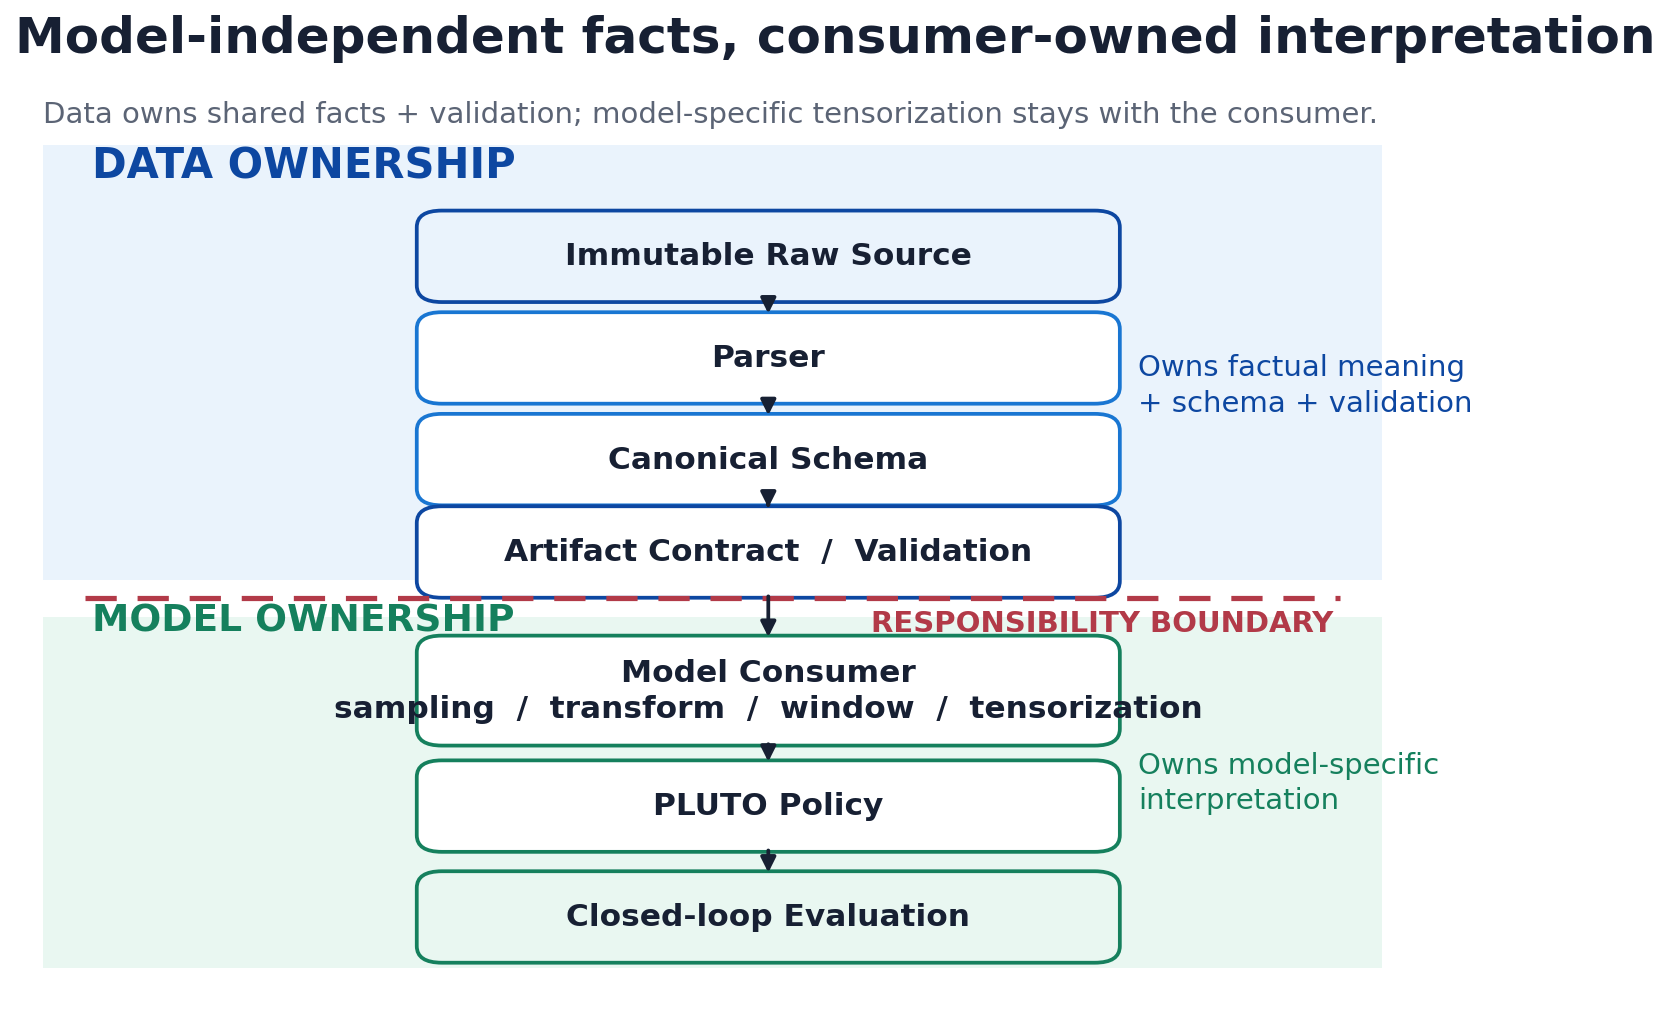
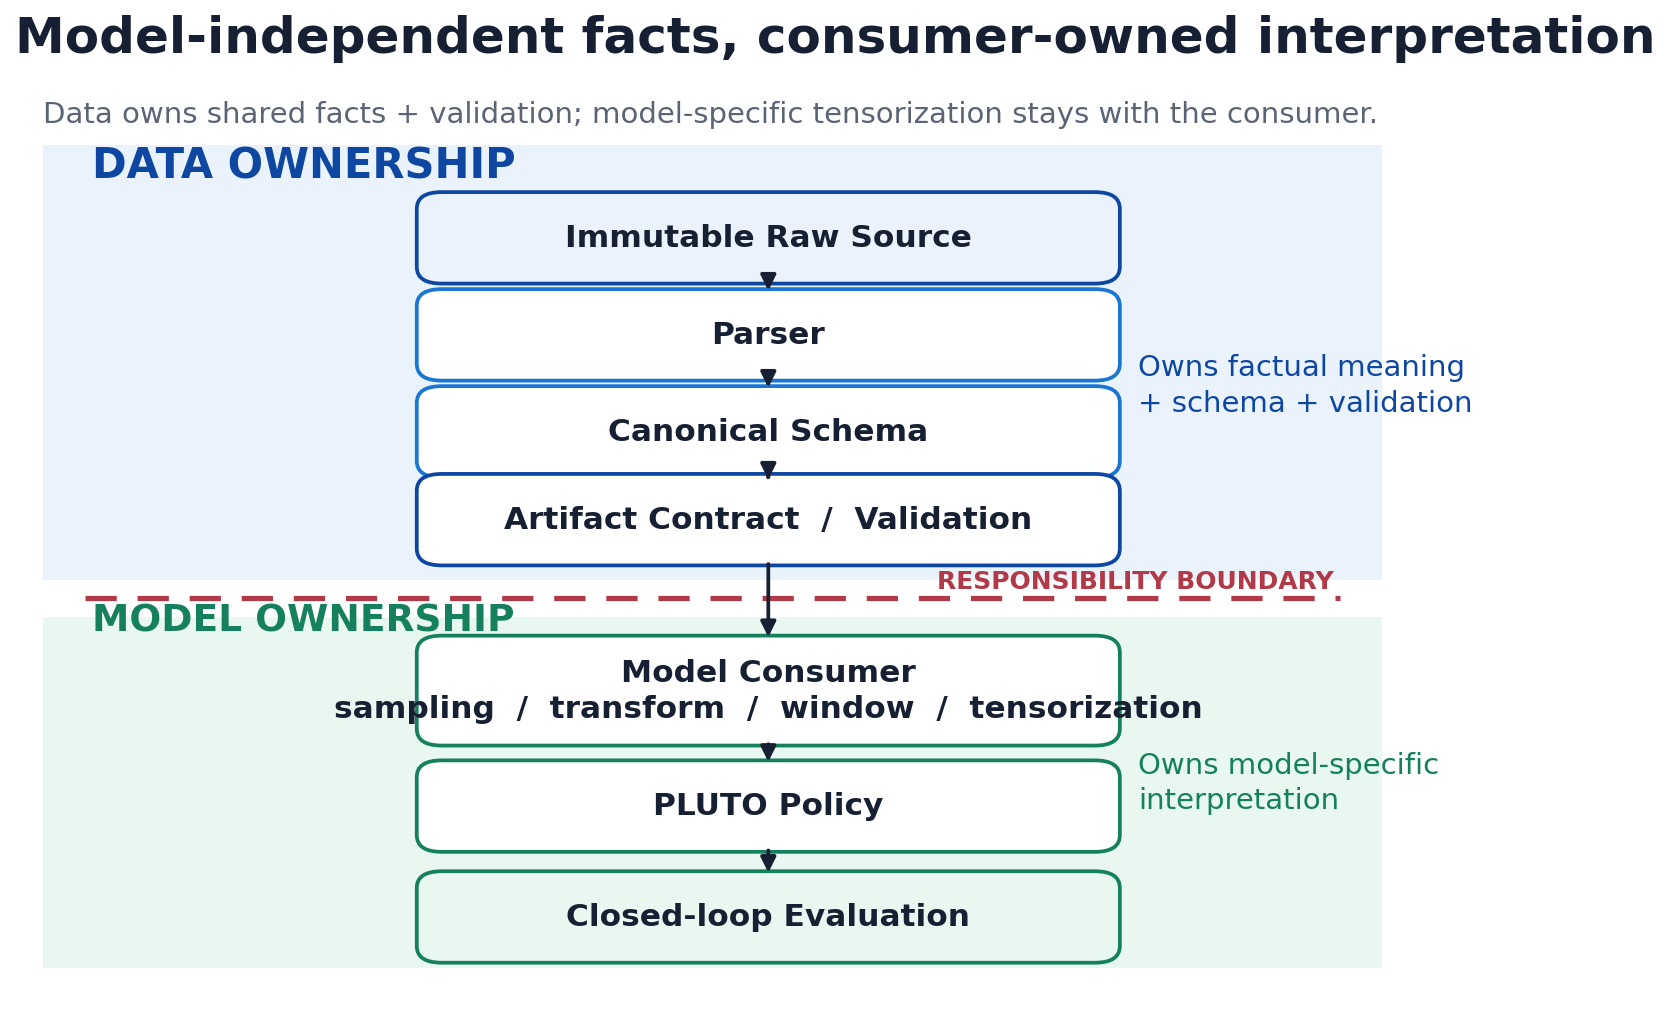
T-PORT: polish diagram layout (labels)

Changed region(s): [[0.2491, 0.1866, 0.8096, 0.622]]

diff --git a/portfolio/scripts/generate_assets.py b/portfolio/scripts/generate_assets.py
@@ -88,10 +88,10 @@ def ownership_architecture() -> None:
     ax.text(0.055, 0.415, "MODEL OWNERSHIP", fontsize=18, fontweight="bold", color=GREEN)
 
     nodes = [
-        (0.82, "Immutable Raw Source", BLUE_PALE, BLUE_DARK),
-        (0.71, "Parser", "white", BLUE),
-        (0.60, "Canonical Schema", "white", BLUE),
-        (0.50, "Artifact Contract  /  Validation", "white", BLUE_DARK),
+        (0.84, "Immutable Raw Source", BLUE_PALE, BLUE_DARK),
+        (0.735, "Parser", "white", BLUE),
+        (0.63, "Canonical Schema", "white", BLUE),
+        (0.535, "Artifact Contract  /  Validation", "white", BLUE_DARK),
         (0.35, "Model Consumer\nsampling  /  transform  /  window  /  tensorization", "white", GREEN),
         (0.225, "PLUTO Policy", "white", GREEN),
         (0.105, "Closed-loop Evaluation", GREEN_PALE, GREEN),
@@ -112,11 +112,11 @@ def ownership_architecture() -> None:
     ax.plot([0.05, 0.95], [0.45, 0.45], color=RED, lw=2.5, dashes=(6, 4))
     ax.text(
         0.945,
-        0.438,
+        0.455,
         "RESPONSIBILITY BOUNDARY",
         ha="right",
-        va="top",
-        fontsize=14,
+        va="bottom",
+        fontsize=12,
         fontweight="bold",
         color=RED,
     )
@@ -262,7 +262,7 @@ def counterfactual_quality() -> None:
         x = x0 + (tick / 0.6) * (x1 - x0)
         ax.plot([x, x], [y - 0.012, y + 0.012], color=INK, lw=1.2)
         ax.text(x, y - 0.045, f"{tick:.1f} m", ha="center", va="top", fontsize=14, color=MUTED)
-    for value, label, color, dy in [(0.30, "p50  0.30 m", BLUE, 0.055), (0.47, "p90  0.47 m", AMBER, -0.07)]:
+    for value, label, color, dy in [(0.30, "p50  0.30 m", BLUE, 0.055), (0.47, "p90  0.47 m", AMBER, 0.055)]:
         x = x0 + (value / 0.6) * (x1 - x0)
         ax.scatter([x], [y], s=180, color=color, zorder=3, edgecolors="white", linewidths=1.5)
         ax.text(x, y + dy, label, ha="center", va="center", fontsize=14, fontweight="bold", color=color)
